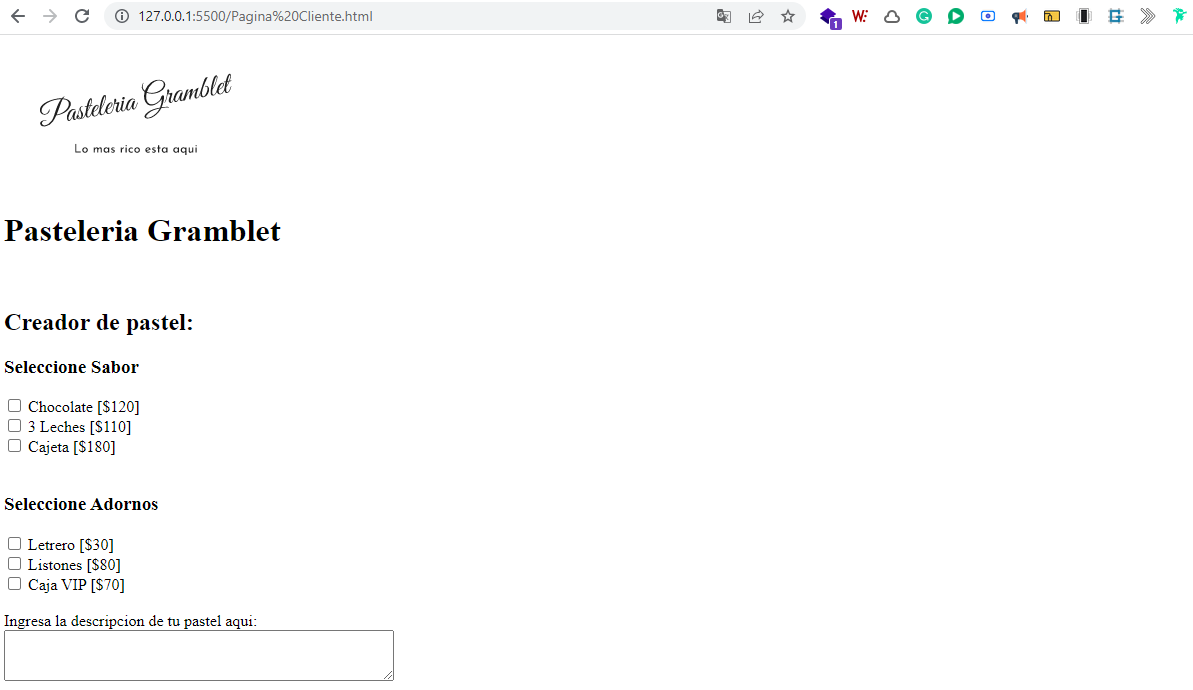
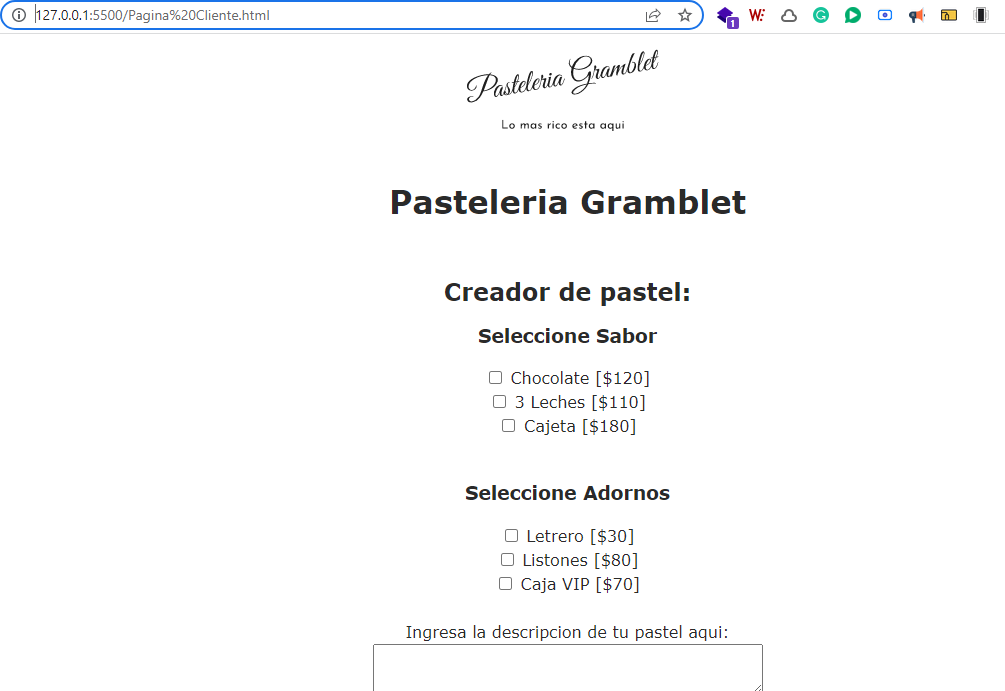
Correccion de error en Pagina Cliente.html

diff --git a/02 - HTML/Pagina Pastelero.html b/02 - HTML/Pagina Pastelero.html
@@ -1,10 +1,23 @@
 <!DOCTYPE html>
-<html lang="en">
+<html lang="es">
 <head>
     <meta charset="UTF-8">
     <meta http-equiv="X-UA-Compatible" content="IE=edge">
     <meta name="viewport" content="width=device-width, initial-scale=1.0">
     <title>Pasteleria Gramblet</title>
+    <style>
+        body {
+        font-family: Verdana;
+        font-size: 1em;
+        line-height: 1.5em;
+        text-align: center;
+        color: rgb(42, 42, 42);
+        margin: 0px;
+    }
+    table {
+        margin: auto;
+    }
+    </style>
 </head>
 <body>
     <img src="Logo.PNG" alt="Logo Pasteleria Gramblet"><br>
@@ -15,23 +28,23 @@
     <br>
 
     <h3>Lista de Pedidos</h3>
-    <table>
-    <tr>
-        <th>ID Pedido</th>
-        <th>Descripcion</th>
-    </tr>
-    <tr>
-        <td>1</td>
-        <td>Chocolate, Letrero</td>
-    </tr>
-    <tr>
-        <td>2</td>
-        <td>3 Leches, Letrero, Caja VIP</td>
-    </tr>
-    <tr>
-        <td>3</td>
-        <td>Chocolate - Cajeta, Letrero</td>
-    </tr>
+    <table id="mytable">
+        <tr>
+            <th>ID Pedido</th>
+            <th>Descripcion</th>
+        </tr>
+        <tr>
+            <td>1</td>
+            <td>Chocolate, Letrero</td>
+        </tr>
+        <tr>
+            <td>2</td>
+            <td>3 Leches, Letrero, Caja VIP</td>
+        </tr>
+        <tr>
+            <td>3</td>
+            <td>Chocolate - Cajeta, Letrero</td>
+        </tr>
     </table>
 
 

diff --git a/02 - HTML/Pagina Cliente.html b/02 - HTML/Pagina Cliente.html
@@ -1,11 +1,23 @@
 <!DOCTYPE html>
-<html lang="en">
+<html lang="es">
 <head>
     <meta charset="UTF-8">
     <meta http-equiv="X-UA-Compatible" content="IE=edge">
     <meta name="viewport" content="width=device-width, initial-scale=1.0">
     <title>Pasteleria Gramblet</title>
+
+    <style>
+        body {
+        font-family: Verdana;
+        font-size: 1em;
+        line-height: 1.5em;
+        text-align: center;
+        color: rgb(42, 42, 42);
+        margin: 0px;
+    }
+    </style>
 </head>
+
 <body>
     <img src="Logo.PNG" alt="Logo Pasteleria Gramblet"><br>
     <h1>Pasteleria Gramblet</h1><br>
@@ -38,10 +50,10 @@
         <label for="nombre">Nombre:</label><br>
         <input type="text" id="nombre" name="nombre"><br><br>
 
-        <label for="telefono">Correo Electronico</label><br>
+        <label for="telefono">Numero de Telefono:</label><br>
         <input type="tel" id="telefono" name="telefono"><br><br>
 
-        <label for="correo">Correo Electronico</label><br>
+        <label for="correo">Correo Electronico:</label><br>
         <input type="email" id="correo" name="correo"><br><br>
 
         <input type="submit" value="Submit">
